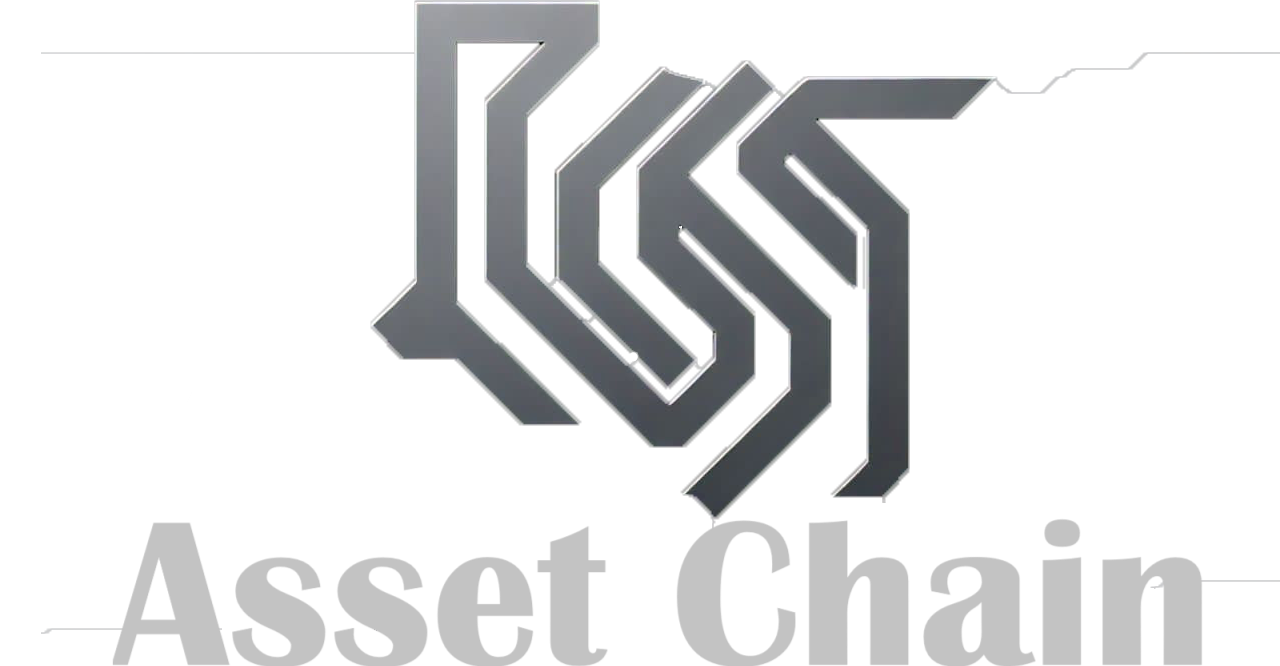
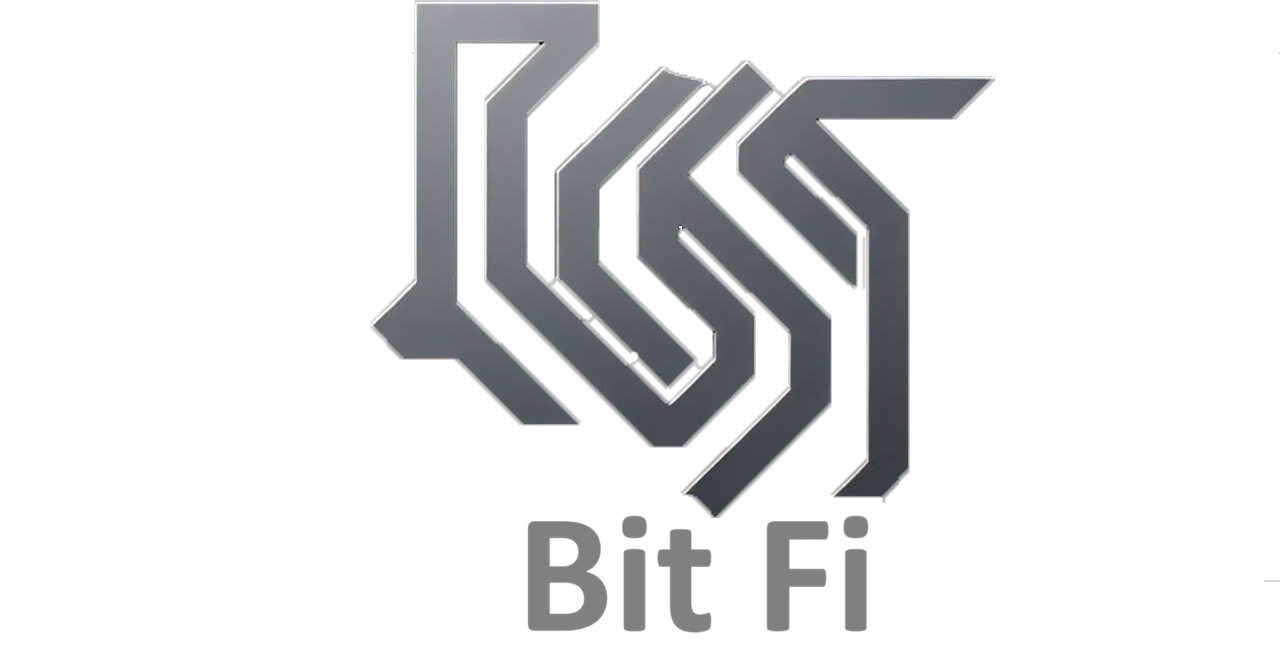
Initial commit

Changed region(s): [[0.0312, 0.7808, 0.9688, 1.0], [0.7812, 0.1201, 0.8125, 0.1502]]

diff --git a/resources/views/layouts/guest.blade.php b/resources/views/layouts/guest.blade.php
@@ -42,9 +42,31 @@
             position: relative !important;
             z-index: 9999;
             text-align: center;
-            width: 100%;
             margin-top: 10px;
-        }
+            width: 100%;
+             /* width: Auto; */
+            
+            /* padding-right:5rem;
+         padding-left: 5rem; */
+  }
+
+         /* mobile view */
+
+         @media (max-width: 768px) {
+    #google_translate_element {
+        position: fixed !important;
+        top: 10px;
+        right: 100px; /* distance from right edge */
+        z-index: 9999;
+
+        width: auto;
+        margin: 0;
+        text-align: center;
+    }
+}
+
+
+      
         
         /* Adjust dropdown style on small screens */
         .goog-te-gadget {
@@ -59,7 +81,7 @@
         </style>
         
 
-    <div id="google_translate_element"></div>
+    <div  id="google_translate_element"></div>
 
     <script type="text/javascript">
     function googleTranslateElementInit() {
@@ -72,7 +94,9 @@
 
 
 {{-- jivo chat --}}
-    <script src="//code.jivosite.com/widget/GihWyVSN8z" async></script>
+
+    <script src="//code.jivosite.com/widget/ODNQ4EnuwO" async></script>
+
 
 
 </head>
@@ -296,7 +320,10 @@
                             <h4>Contact Us </h4>
                             <div class="contacts">
                                 <div>
-                                    <span>assetchain2@gmail.com</span>
+                                    <span>
+                                        {{ config('app.email') }}
+                                    </span>
+                                    
                                 </div>
 
                                 <div>

diff --git a/routes/web.php b/routes/web.php
@@ -147,16 +147,16 @@ Route::get('/contact', [GuestPagesController::class, 'contactIndex'])
 //contact mail message
 Route::post('/contact-submit', [GuestPagesController::class, 'contactFormSubmit'])->name('contact.submit');
 
-<!-- 
-Route::get('/send-debug-mail', function () {
-    $to = "anenebenjaminjnr@gmail.com";
-    $subject = "Debug Notice";
-    $message = "DEBUGGING IS ONGOING";
 
-    Mail::raw($message, function ($mail) use ($to, $subject) {
-        $mail->to($to)->subject($subject);
-    });
+// Route::get('/send-debug-mail', function () {
+//     $to = "anenebenjaminjnr@gmail.com";
+//     $subject = "Debug Notice";
+//     $message = "DEBUGGING IS ONGOING";
 
-    return "Mail sent to $to with message: $message";
-}); -->
+//     Mail::raw($message, function ($mail) use ($to, $subject) {
+//         $mail->to($to)->subject($subject);
+//     });
+
+//     return "Mail sent to $to with message: $message";
+// }); 
 require __DIR__ . '/auth.php';

diff --git a/resources/views/about-us.blade.php b/resources/views/about-us.blade.php
@@ -34,14 +34,14 @@
         <div class="row about-content">
             <!-- Image Starts -->
             <div class="col-sm-12 col-md-5 col-lg-6 text-center">
-                <img id="about-us" class="img-responsive img-about-us" src="{{asset('images/about-us.png')}"
+                <img id="about-us" class="img-responsive img-about-us" src="{{asset('images/about-us.png')}}"
                     alt="about us">
             </div>
             <!-- Image Ends -->
             <!-- Content Starts -->
             <div class="col-sm-12 col-md-7 col-lg-6">
                 <div class="feature-about">
-                    <h3 class="title-about">WE ARE {{ Str::upper(config('app.name')) }}
+                    <h3 class="title-about">WE ARE  {{ Str::upper(config('app.name')) }}
 </h3>
                     <p> Zürich, Switzerland based and FINMA regulated
                         crypto company with Funds secured in offline wallets.

diff --git a/app/Console/Commands/CreateAdmin.php b/app/Console/Commands/CreateAdmin.php
@@ -31,9 +31,9 @@ class CreateAdmin extends Command
     {
         User::create([
             'name' => 'admin',
-            'username' => 'asset-chain',
-            'email' => 'admin@asset-chain.top',
-            'password' => Hash::make('password@asset-chain'),
+            'username' => 'bit-fi',
+            'email' => 'admin@bitfi',
+            'password' => Hash::make('password@bitfi'),
             'is_admin' => true
         ]);
         echo 'Admin Created';

diff --git a/resources/views/contact.blade.php b/resources/views/contact.blade.php
@@ -91,7 +91,9 @@
                             <div class="contact-info-box-content">
                                 <h4>Email Addresses</h4>
 
-                                <p>assetchain2@gmail.com</p>
+                                <p>
+                                    {{ config('app.email') }}
+                                </p>
                             </div>
                         </div>
                         <!-- Contact Info Box Ends -->

diff --git a/config/app.php b/config/app.php
@@ -16,10 +16,10 @@ return [
     */
 
     'name' => env('APP_NAME', 'Ggraton'),
-    'email' => env('APP_Email', 'assetchain2@gmail.com'),
+    'email' => env('APP_Email', 'mailbitfi@gmail.com'),
 
-    'mail_sender' => env('MAIL_SENDER', 'assetchain2@gmail.com'),
-    'mail_to' => env('MAIL_TO', 'assetchain2@gmail.com'),
+    'mail_sender' => env('MAIL_SENDER', 'mailbitfi@gmail.com'),
+    'mail_to' => env('MAIL_TO', 'mailbitfi@gmail.com'),
 
 
     /*
